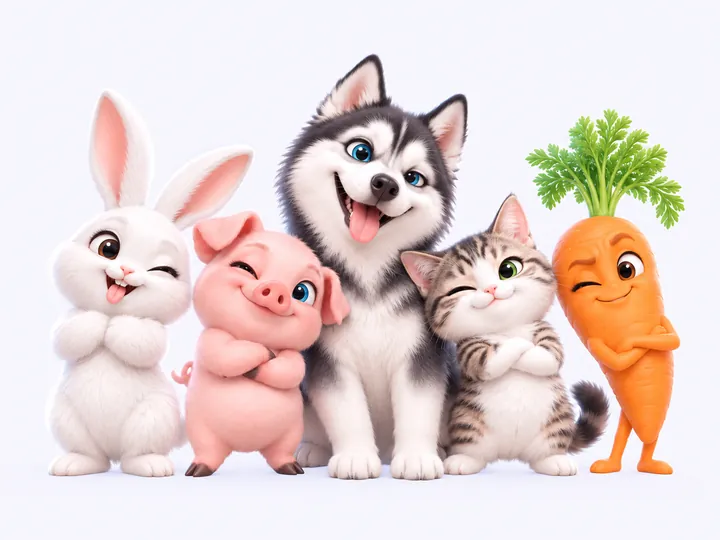
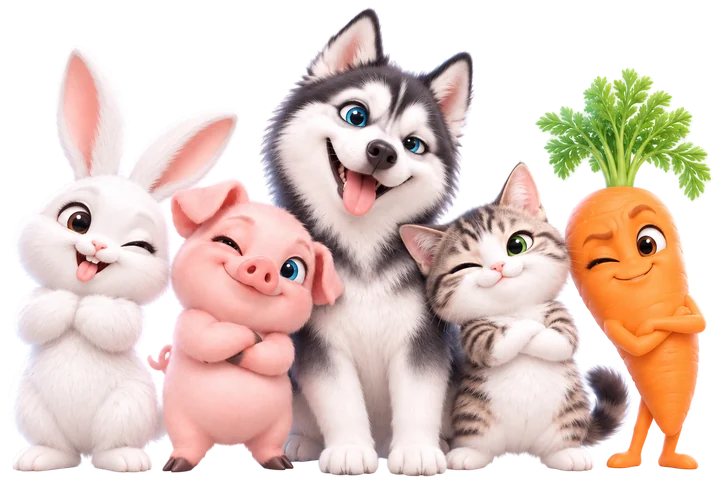
feat(login): 透明抠图伙伴合照，去掉白底卡片，脚底与登录卡底边对齐

diff --git a/app/globals.css b/app/globals.css
@@ -1849,15 +1849,15 @@ html[data-workspace=teacher] .bottom-nav button.active{color:#111827}
 .access-hero-copy h1 span{color:var(--access)}
 .access-hero-copy p{margin-top:14px;font-size:.95rem;line-height:1.75;color:#7a7383}
 .access-hero-copy{animation:hero-rise .7s cubic-bezier(.2,.7,.2,1) both}
-.access-hero-art{position:relative;aspect-ratio:4/3;max-width:600px;width:100%;border-radius:28px;background:#f7f6fd;box-shadow:0 30px 70px color-mix(in srgb,var(--access) 12%,transparent),inset 0 0 0 1px #ffffffcc;overflow:hidden;animation:hero-rise .9s .1s cubic-bezier(.2,.7,.2,1) both}
-.access-hero-glow{position:absolute;inset:-20%;z-index:1;mix-blend-mode:multiply;opacity:.55;background:radial-gradient(closest-side at calc(50% + var(--px)*30%) calc(40% + var(--py)*30%),color-mix(in srgb,var(--access) 16%,transparent),transparent 70%);transition:background .2s;pointer-events:none}
-.access-hero-img{position:absolute;inset:2%;display:block;transform:translate3d(calc(var(--px)*-14px),calc(var(--py)*-10px),0);transition:transform .35s cubic-bezier(.2,.7,.2,1)}
-.access-hero-img img{width:100%;height:100%;object-fit:contain;animation:hero-float 6s ease-in-out infinite;user-select:none;-webkit-user-drag:none}
-.access-hero-shadow{position:absolute;left:18%;right:18%;bottom:7%;height:16px;border-radius:50%;background:radial-gradient(closest-side,#3c2f5022,transparent);animation:hero-shadow 6s ease-in-out infinite}
-.access-sparkle{position:absolute;width:10px;height:10px;background:#fff;clip-path:polygon(50% 0,62% 38%,100% 50%,62% 62%,50% 100%,38% 62%,0 50%,38% 38%);filter:drop-shadow(0 0 6px color-mix(in srgb,var(--access) 60%,white));animation:hero-twinkle 3.6s ease-in-out infinite;transform:translate3d(calc(var(--px)*12px),calc(var(--py)*12px),0)}
+.access-hero-art{position:relative;aspect-ratio:1320/877;max-width:600px;width:100%;margin-top:auto;background:none;overflow:visible;animation:hero-rise .9s .1s cubic-bezier(.2,.7,.2,1) both}
+.access-hero-glow{position:absolute;inset:-12% -8% 0;z-index:0;opacity:.6;background:radial-gradient(closest-side at calc(50% + var(--px)*30%) calc(40% + var(--py)*30%),color-mix(in srgb,var(--access) 16%,transparent),transparent 70%);transition:background .2s;pointer-events:none}
+.access-hero-img{position:absolute;inset:0;z-index:2;display:block;transform:translate3d(calc(var(--px)*-14px),calc(var(--py)*-10px),0);transition:transform .35s cubic-bezier(.2,.7,.2,1)}
+.access-hero-img img{width:100%;height:100%;object-fit:contain;object-position:50% 100%;filter:drop-shadow(0 10px 18px color-mix(in srgb,var(--access) 14%,transparent));animation:hero-float 6s ease-in-out infinite;user-select:none;-webkit-user-drag:none}
+.access-hero-shadow{position:absolute;z-index:1;left:6%;right:6%;bottom:-9px;height:20px;border-radius:50%;background:radial-gradient(closest-side,#3c2f5022,transparent);animation:hero-shadow 6s ease-in-out infinite}
+.access-sparkle{position:absolute;z-index:3;width:10px;height:10px;background:#fff;clip-path:polygon(50% 0,62% 38%,100% 50%,62% 62%,50% 100%,38% 62%,0 50%,38% 38%);filter:drop-shadow(0 0 6px color-mix(in srgb,var(--access) 60%,white));animation:hero-twinkle 3.6s ease-in-out infinite;transform:translate3d(calc(var(--px)*12px),calc(var(--py)*12px),0)}
 .access-sparkle.s1{top:12%;left:14%}.access-sparkle.s2{top:20%;right:12%;width:14px;height:14px;animation-delay:1.2s}.access-sparkle.s3{bottom:26%;left:48%;width:8px;height:8px;animation-delay:2.3s}
 @keyframes hero-rise{from{opacity:0;transform:translateY(16px)}to{opacity:1;transform:none}}
-@keyframes hero-float{0%,100%{transform:translateY(0)}50%{transform:translateY(-8px)}}
+@keyframes hero-float{0%,100%{transform:translateY(0)}50%{transform:translateY(-6px)}}
 @keyframes hero-shadow{0%,100%{transform:scaleX(1);opacity:1}50%{transform:scaleX(.92);opacity:.7}}
 @keyframes hero-twinkle{0%,100%{opacity:0;scale:.6}50%{opacity:1;scale:1}}
 .access-card{animation:hero-rise .7s .15s cubic-bezier(.2,.7,.2,1) both}
@@ -1867,6 +1867,7 @@ html[data-workspace=teacher] .bottom-nav button.active{color:#111827}
 .access-demo-fill{display:flex;align-items:center;justify-content:center;gap:6px;width:100%;margin-top:14px;min-height:40px;font-size:.78rem;color:var(--access-deep);border-radius:10px;border:1px dashed color-mix(in srgb,var(--access) 35%,white);background:transparent}
 .access-demo-fill:hover{background:var(--access-faint)}
 .access-demo-fill:focus-visible,.access-role button:focus-visible{outline:2px solid var(--access);outline-offset:2px}
+@media(min-width:901px){.access-layout{align-items:stretch}.access-hero{justify-content:space-between}.access-card{align-self:center}}
 @media(max-width:900px){.access-hero{order:0;align-items:center;text-align:center}.access-hero-art{max-width:420px}.access-hero-copy p{display:none}}
-@media(max-width:600px){.access-hero{display:flex;gap:10px}.access-hero-copy{display:none}.access-hero-art{max-width:300px;border-radius:22px;box-shadow:none;background:#f7f6fd}.access-role.access-role-3 button{flex-direction:column;gap:3px;min-height:58px}}
+@media(max-width:600px){.access-hero{display:flex;gap:10px}.access-hero-copy{display:none}.access-hero-art{max-width:300px;margin-bottom:10px}.access-role.access-role-3 button{flex-direction:column;gap:3px;min-height:58px}}
 @media(prefers-reduced-motion:reduce){.access-hero-copy,.access-hero-art,.access-card,.access-hero-img img,.access-hero-shadow,.access-sparkle{animation:none!important}.access-hero-img,.access-hero-glow{transition:none;transform:none}.access-sparkle{opacity:.7}}

diff --git a/components/nexus/login.tsx b/components/nexus/login.tsx
@@ -45,8 +45,8 @@ export default function Login() {
         <div className="access-hero-art">
           <div className="access-hero-glow" aria-hidden="true"/>
           <picture className="access-hero-img">
-            <source type="image/webp" srcSet={`${CREW_SM} 720w, ${CREW_WEBP} 1200w`} sizes="(max-width: 900px) 90vw, 560px"/>
-            <img src={CREW_PNG} width={1200} height={900} alt="B.E.S.T 的伙伴们：小兔、小猪、哈士奇、小猫和胡萝卜" decoding="async" fetchPriority="high"/>
+            <source type="image/webp" srcSet={`${CREW_SM} 720w, ${CREW_WEBP} 1320w`} sizes="(max-width: 900px) 90vw, 560px"/>
+            <img src={CREW_PNG} width={960} height={638} alt="B.E.S.T 的伙伴们：小兔、小猪、哈士奇、小猫和胡萝卜" decoding="async" fetchPriority="high"/>
           </picture>
           <span className="access-hero-shadow" aria-hidden="true"/>
           <span className="access-sparkle s1" aria-hidden="true"/><span className="access-sparkle s2" aria-hidden="true"/><span className="access-sparkle s3" aria-hidden="true"/>
